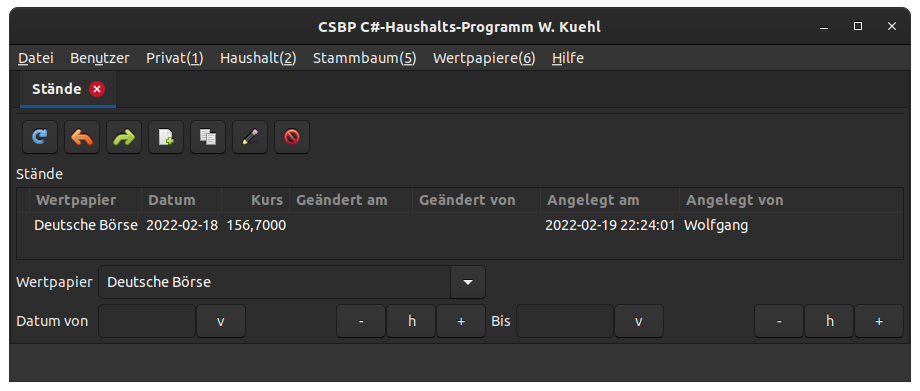
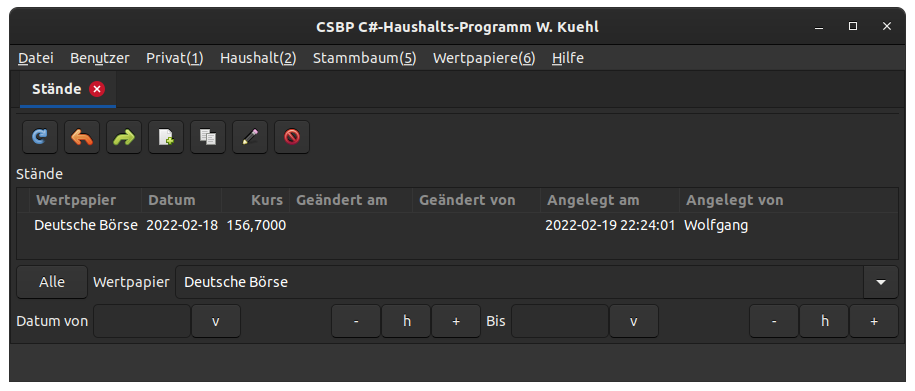
Button All for dialog WP500.

diff --git a/CSBP/Forms/WP/WP500Prices.cs b/CSBP/Forms/WP/WP500Prices.cs
@@ -227,6 +227,15 @@ namespace CSBP.Forms.WP
       editAction.Activate();
     }
 
+    /// <summary>Behandlung von Alle.</summary>
+    /// <param name="sender">Betroffener Sender.</param>
+    /// <param name="e">Betroffenes Ereignis.</param>
+    protected void OnAlleClicked(object sender, EventArgs e)
+    {
+      RefreshTreeView(staende, 0);
+      SetText(wertpapier, null);
+    }
+
     /// <summary>Behandlung von Wertpapier.</summary>
     /// <param name="sender">Betroffener Sender.</param>
     /// <param name="e">Betroffenes Ereignis.</param>
